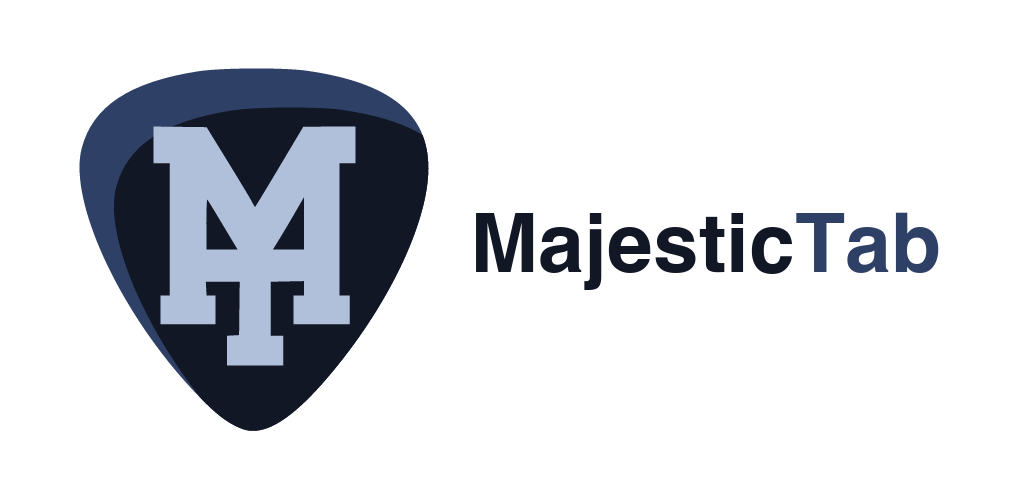
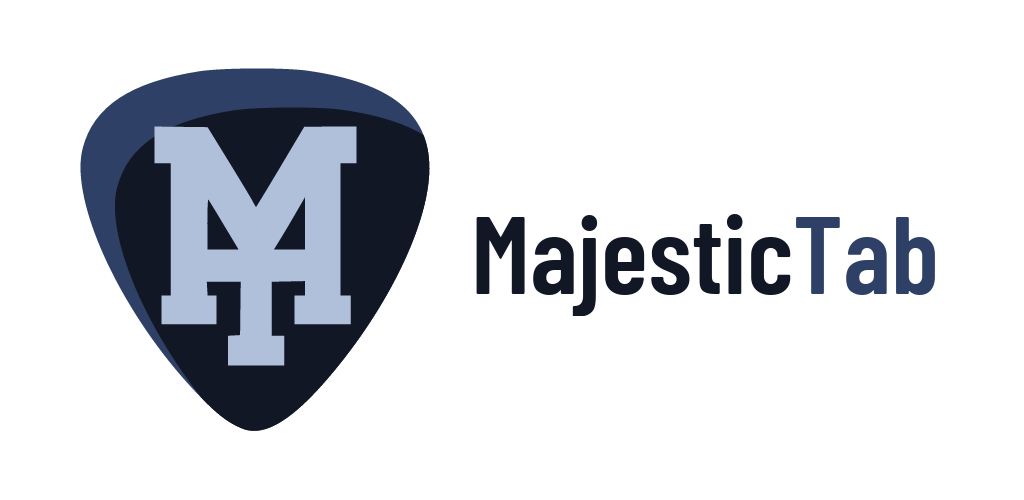
Brand wordmark: use Barlow Condensed in store artwork and color Tab on the landing page

Changed region(s): [[0.4375, 0.42, 0.9375, 0.63], [0.1875, 0.42, 0.2188, 0.45]]

diff --git a/docs/index.html b/docs/index.html
@@ -64,7 +64,7 @@
 
 <header class="top">
   <div class="wrap">
-    <a class="brand" href="#top" aria-label="MajesticTab home"><span class="tile"><img src="icons/mark.svg" width="28" height="29" alt=""></span>MajesticTab</a>
+    <a class="brand" href="#top" aria-label="MajesticTab home"><span class="tile"><img src="icons/mark.svg" width="28" height="29" alt=""></span>Majestic<b>Tab</b></a>
     <nav class="nav" aria-label="Main">
       <a href="#library">Library</a>
       <a href="#sources">Sources</a>
@@ -452,7 +452,7 @@
 
 <footer class="foot">
   <div class="wrap">
-    <a class="brand" href="#top" aria-label="MajesticTab, back to top"><span class="tile"><img src="icons/mark.svg" width="24" height="25" alt=""></span>MajesticTab</a>
+    <a class="brand" href="#top" aria-label="MajesticTab, back to top"><span class="tile"><img src="icons/mark.svg" width="24" height="25" alt=""></span>Majestic<b>Tab</b></a>
     <nav class="foot-links" aria-label="Footer">
       <a href="https://github.com/cgarst/MajesticTab">Source code</a>
       <a href="https://github.com/cgarst/MajesticTab/releases/latest">Latest release</a>

diff --git a/docs/site.css b/docs/site.css
@@ -65,6 +65,7 @@ h3 { font: 600 20px/1.3 var(--font-text); }
 .top { background: var(--ground); }
 .top .wrap { display: flex; align-items: center; justify-content: space-between; min-height: 72px; }
 .brand { display: inline-flex; align-items: center; gap: 12px; font: 600 24px/1 var(--font-display); letter-spacing: 0.01em; }
+.brand b { font-weight: inherit; color: var(--action); }
 .brand .tile { width: 36px; height: 36px; padding: 4px; background: var(--ink); border-radius: var(--r); }
 .brand .tile img { width: 100%; height: 100%; }
 .nav { display: flex; align-items: center; gap: 4px; }

diff --git a/support/tools/store_logos.py b/support/tools/store_logos.py
@@ -5,28 +5,41 @@ Store tiles are shown at thumbnail size (~150-300px), so the art is built for th
 a large pick mark, a wordmark spanning most of the width, and no tagline (it was
 unreadable when scaled down).
 
-Requires: pip install resvg-py pillow
+Requires: pip install resvg-py pillow fonttools brotli
 """
 import io
+import tempfile
 from pathlib import Path
 
 import resvg_py
+from fontTools.ttLib import TTFont
 from PIL import Image, ImageDraw, ImageFont
 
 ROOT = Path(__file__).resolve().parent.parent.parent
 SOURCE = ROOT / "support" / "branding" / "icon_v3.svg"
 OUT = ROOT / "support" / "store" / "msstore" / "logos"
 PLAY_OUT = ROOT / "fastlane" / "metadata" / "android" / "en-US" / "images"
-FONT = "/System/Library/Fonts/Helvetica.ttc"  # index 1 = Bold
+# The wordmark uses the landing page header font (.brand in docs/site.css: Barlow Condensed 600).
+FONT_WOFF2 = ROOT / "docs" / "fonts" / "barlow-condensed-latin-600-normal.woff2"
 TOP, BOTTOM = (0xFF, 0xFF, 0xFF), (0xFF, 0xFF, 0xFF)  # flat white ground, like the app icon's tile
 INK = (0x11, 0x17, 0x24)  # the pick's body color
-TAB_COLOR = (0x2F, 0x40, 0x66)  # the pick's rim (Slate Blue)
+TAB_COLOR = (0x2F, 0x40, 0x66)  # the pick's rim (Slate Blue); the landing page colors "Tab" with --action instead, since its ground is dark
 
 # name -> (w, h, mark width fraction, wordmark width fraction, content block center y fraction)
 SIZES = {
     "box-art-1080x1080.png": (1080, 1080, 0.58, 0.86, 0.50),
     "poster-art-720x1080.png": (720, 1080, 0.88, 0.92, 0.50),
 }
+
+
+def font_path():
+    """PIL cannot read woff2, so convert the site's font to a temporary TTF once."""
+    out = Path(tempfile.gettempdir()) / "majestictab-barlow-condensed-600.ttf"
+    if not out.exists():
+        f = TTFont(str(FONT_WOFF2))
+        f.flavor = None
+        f.save(str(out))
+    return str(out)
 
 
 def background(w, h):
@@ -44,11 +57,11 @@ def mark(width):
 
 def wordmark(width):
     size = 100
-    font = ImageFont.truetype(FONT, size, index=1)
+    font = ImageFont.truetype(font_path(), size)
     a, b = "Majestic", "Tab"
     wa, wb = font.getlength(a), font.getlength(b)
     size = int(size * width / (wa + wb))
-    font = ImageFont.truetype(FONT, size, index=1)
+    font = ImageFont.truetype(font_path(), size)
     wa, wb = font.getlength(a), font.getlength(b)
     asc, desc = font.getmetrics()
     img = Image.new("RGBA", (round(wa + wb) + 4, asc + desc), (0, 0, 0, 0))
